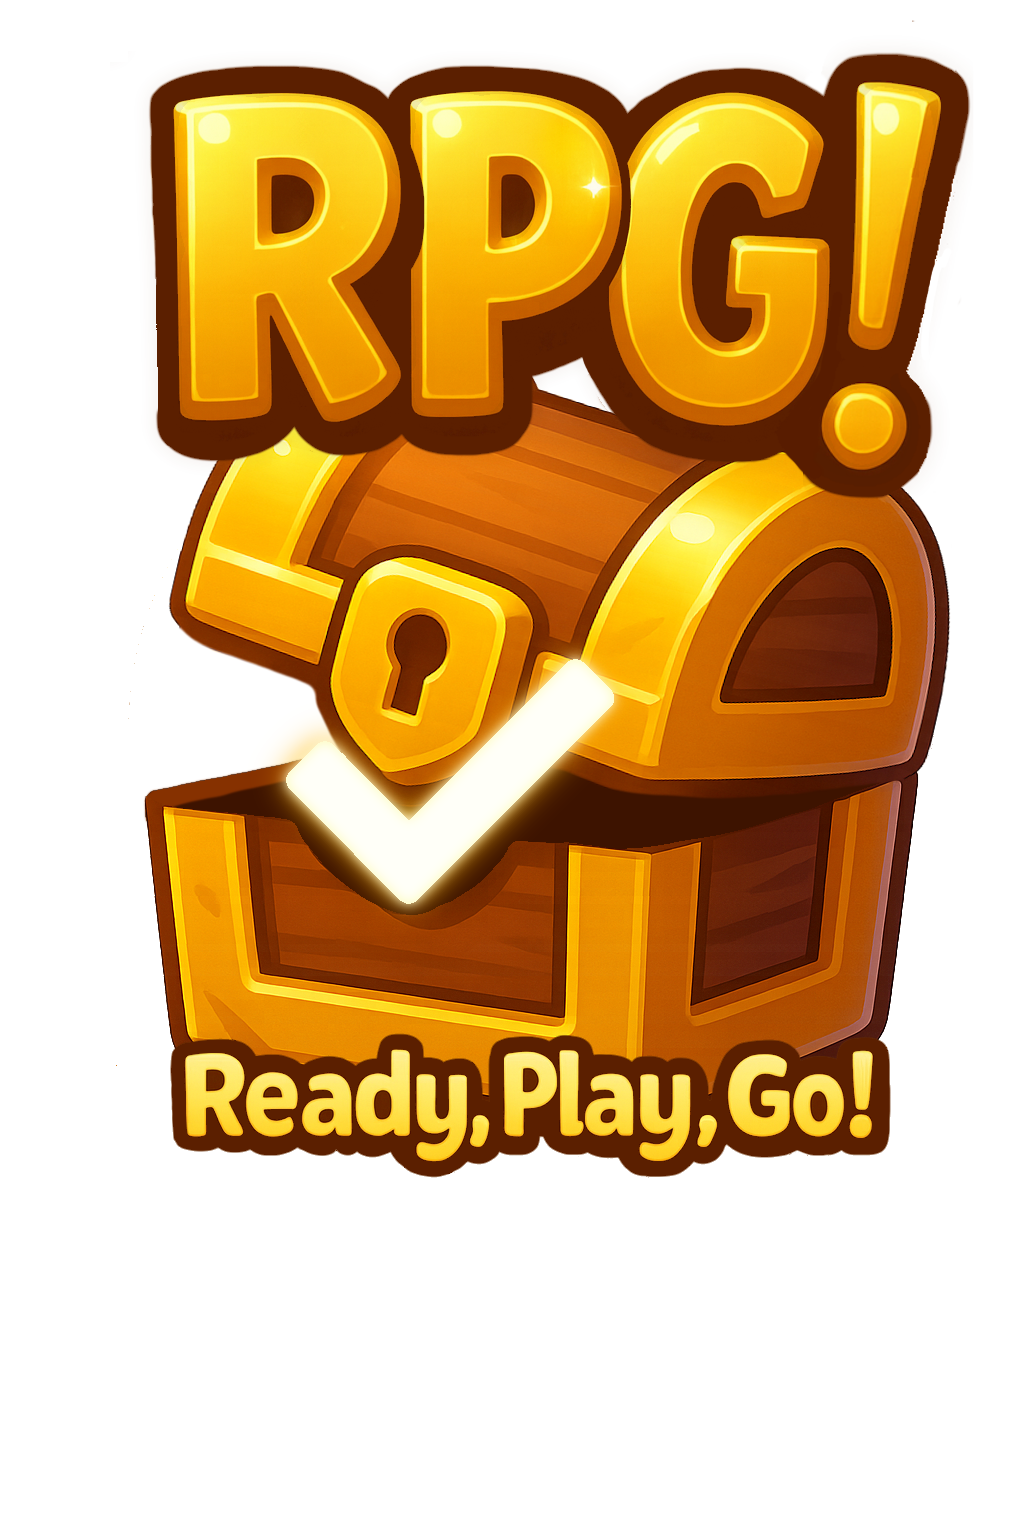
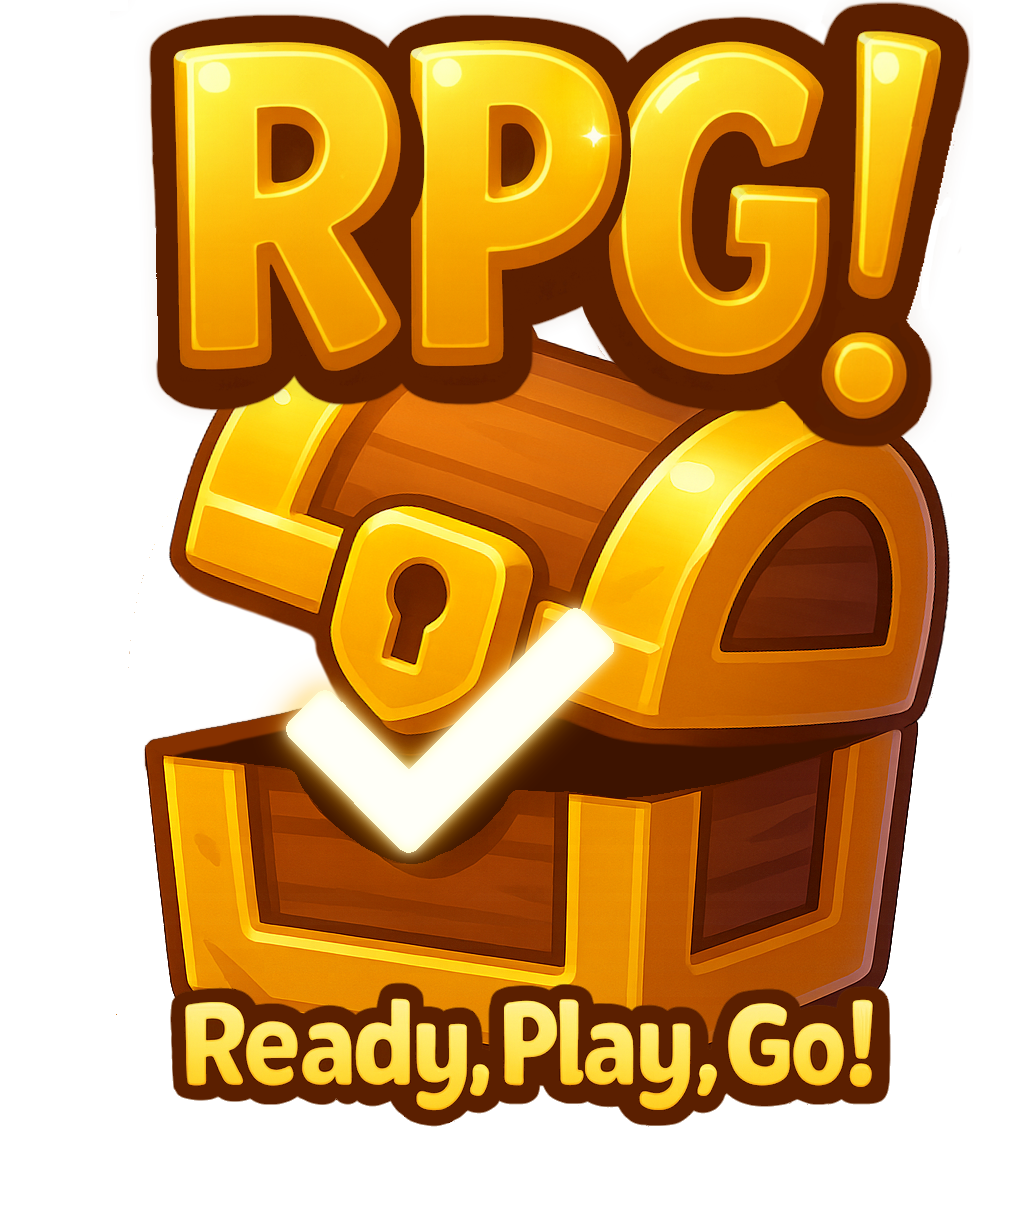
Updated ChildLandingScreen.kt and ParentLandingScreen.kt
-Updated logo assets to have better cropping for easier spacing and sizing control
-Added play button assets
-Removed placeholders for play button (navigation in ParentLandingScreen still needs to be updated once ParentHomeScreen is implemented)
-Removed redundancy regarding column and spacing
-Updated ParentLandingScreen box background bush to follow ChildLandingScreen

diff --git a/RPG App/RPG/app/src/main/java/com/example/rpg/ui/parent/ParentLandingScreen.kt b/RPG App/RPG/app/src/main/java/com/example/rpg/ui/parent/ParentLandingScreen.kt
@@ -38,19 +38,21 @@ fun ParentLandingScreen(
     Box(
         modifier = Modifier
         .fillMaxSize()
-            .background(brush = Brush.linearGradient(
-                //change once we set up material theming
-                colors = listOf(Color(0xFF4782B2), Color(0xFF5F7F93)),
-                start = Offset(0f,0f),
-                end = Offset(0f,3000f)
-            ))
+            //color tuple needs to be updated once material theming implemented
+            .background(
+                brush = Brush.verticalGradient(
+                    colors = listOf(Color(0xFF4782B2), Color(0xFF5F7F93))
+                )
+            )
     ) {
         Column(
             modifier = Modifier.fillMaxSize(),
+            verticalArrangement = Arrangement.Top,
+            horizontalAlignment = Alignment.CenterHorizontally
         ) {
             Row(
                 modifier = Modifier.fillMaxWidth()
-                    .padding(top = 48.dp, bottom = 80.dp),
+                    .padding(top = 48.dp),
                 horizontalArrangement = Arrangement.End,
             ) {
                 //switch button
@@ -59,29 +61,25 @@ fun ParentLandingScreen(
                     Text(text = "Parent")
                 }
             }
-            Column(
-                modifier = Modifier
-                    .padding(top = 48.dp),
-                verticalArrangement = Arrangement.Top,
-                horizontalAlignment = Alignment.CenterHorizontally
-            ) {
-                //logo
-                Image(
-                    painter = painterResource(R.drawable.rpg_logo_parent),
-                    contentDescription = "ParentLandingScreen.kt logo",
-                )
-                //play button (Drawable place holder)
-                //reroute from ChildHomeScreen.kt to parent equivalent once implemented)
-                Image(
-                    painter = painterResource(R.drawable.ic_launcher_foreground),
-                    contentDescription = "Play button",
-                    modifier = modifier.padding(bottom = 48.dp)
-                        .size(2400.dp)
-                        .clickable {
-                            navController.navigate(Routes.ChildHomeScreen.route)
-                        }
-                )
-            }
+            //logo
+            Image(
+                painter = painterResource(R.drawable.rpg_logo_parent),
+                contentDescription = "ParentLandingScreen.kt logo",
+                modifier = modifier
+                    .padding(top = 128.dp)
+                    .size(320.dp)
+            )
+            //play button
+            //reroute from ChildHomeScreen.kt to parent equivalent once implemented)
+            Image(
+                painter = painterResource(R.drawable.play_button_parent),
+                contentDescription = "Play button",
+                modifier = modifier.padding(top = 64.dp)
+                    .size(128.dp)
+                    .clickable {
+                        navController.navigate(Routes.ChildHomeScreen.route)
+                    }
+            )
         }
     }
 }

diff --git a/RPG App/RPG/app/src/main/java/com/example/rpg/ui/child/ChildLandingScreen.kt b/RPG App/RPG/app/src/main/java/com/example/rpg/ui/child/ChildLandingScreen.kt
@@ -37,19 +37,21 @@ fun ChildLandingScreen(
     Box(
         modifier = Modifier
             .fillMaxSize()
+            //color tuple needs to be updated once material theming implemented
             .background(
                 brush = Brush.verticalGradient(
-                    colors = listOf(Color(0xFF798B6A), Color(0xFF6c7d5f)
-                )
+                    colors = listOf(Color(0xFF798B6A), Color(0xFF6c7d5f))
                 )
             )
     ) {
         Column(
             modifier = Modifier.fillMaxSize(),
+            verticalArrangement = Arrangement.Top,
+            horizontalAlignment = Alignment.CenterHorizontally
         ) {
             Row(
                 modifier = Modifier.fillMaxWidth()
-                    .padding(top = 48.dp, bottom = 80.dp),
+                    .padding(top = 48.dp),
                 horizontalArrangement = Arrangement.End,
             ) {
                 //switch button
@@ -58,31 +60,28 @@ fun ChildLandingScreen(
                     Text(text = "Child")
                 }
             }
-            Column(
-                modifier = Modifier
-                    .padding(top = 48.dp),
-                verticalArrangement = Arrangement.Top,
-                horizontalAlignment = Alignment.CenterHorizontally
-            ) {
-                //logo
-                Image(
-                    painter = painterResource(R.drawable.rpg_logo_child),
-                    contentDescription = "ChildLandingScreen.kt logo",
-                )
-                //play button (Drawable place holder)
-                Image(
-                    painter = painterResource(R.drawable.ic_launcher_foreground),
-                    contentDescription = "Play button",
-                    modifier = modifier.padding(bottom = 48.dp)
-                        .size(2400.dp)
-                        .clickable {
-                            navController.navigate(Routes.ChildHomeScreen.route)
-                        }
-                )
-            }
+            //logo
+            Image(
+                painter = painterResource(R.drawable.rpg_logo_child),
+                contentDescription = "ChildLandingScreen.kt logo",
+                modifier = modifier
+                    .padding(top = 128.dp)
+                    .size(320.dp)
+            )
+            //play button
+            Image(
+                painter = painterResource(R.drawable.play_button_child),
+                contentDescription = "Play button",
+                modifier = modifier.padding(top = 64.dp)
+                    .size(128.dp)
+                    .clickable {
+                        navController.navigate(Routes.ChildHomeScreen.route)
+                    }
+            )
         }
     }
 }
+
 
 @Preview
 @Composable
